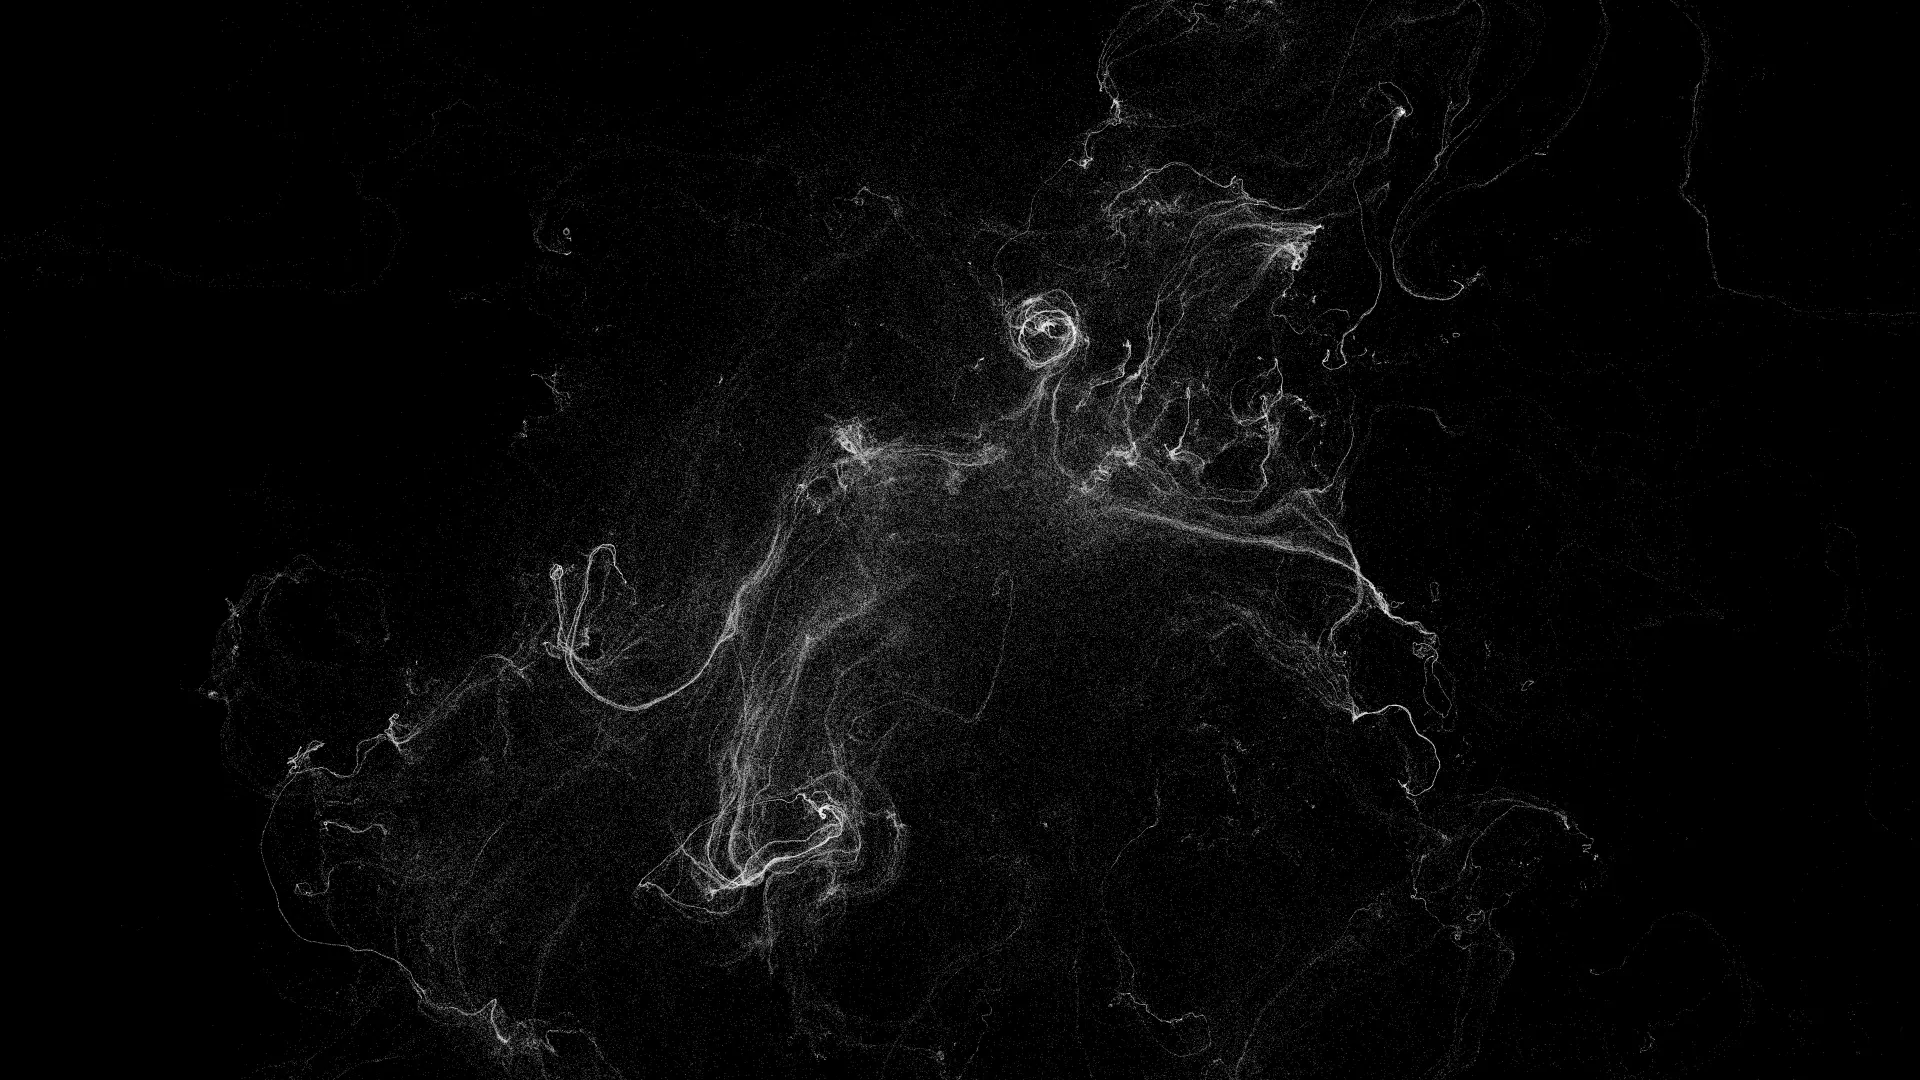
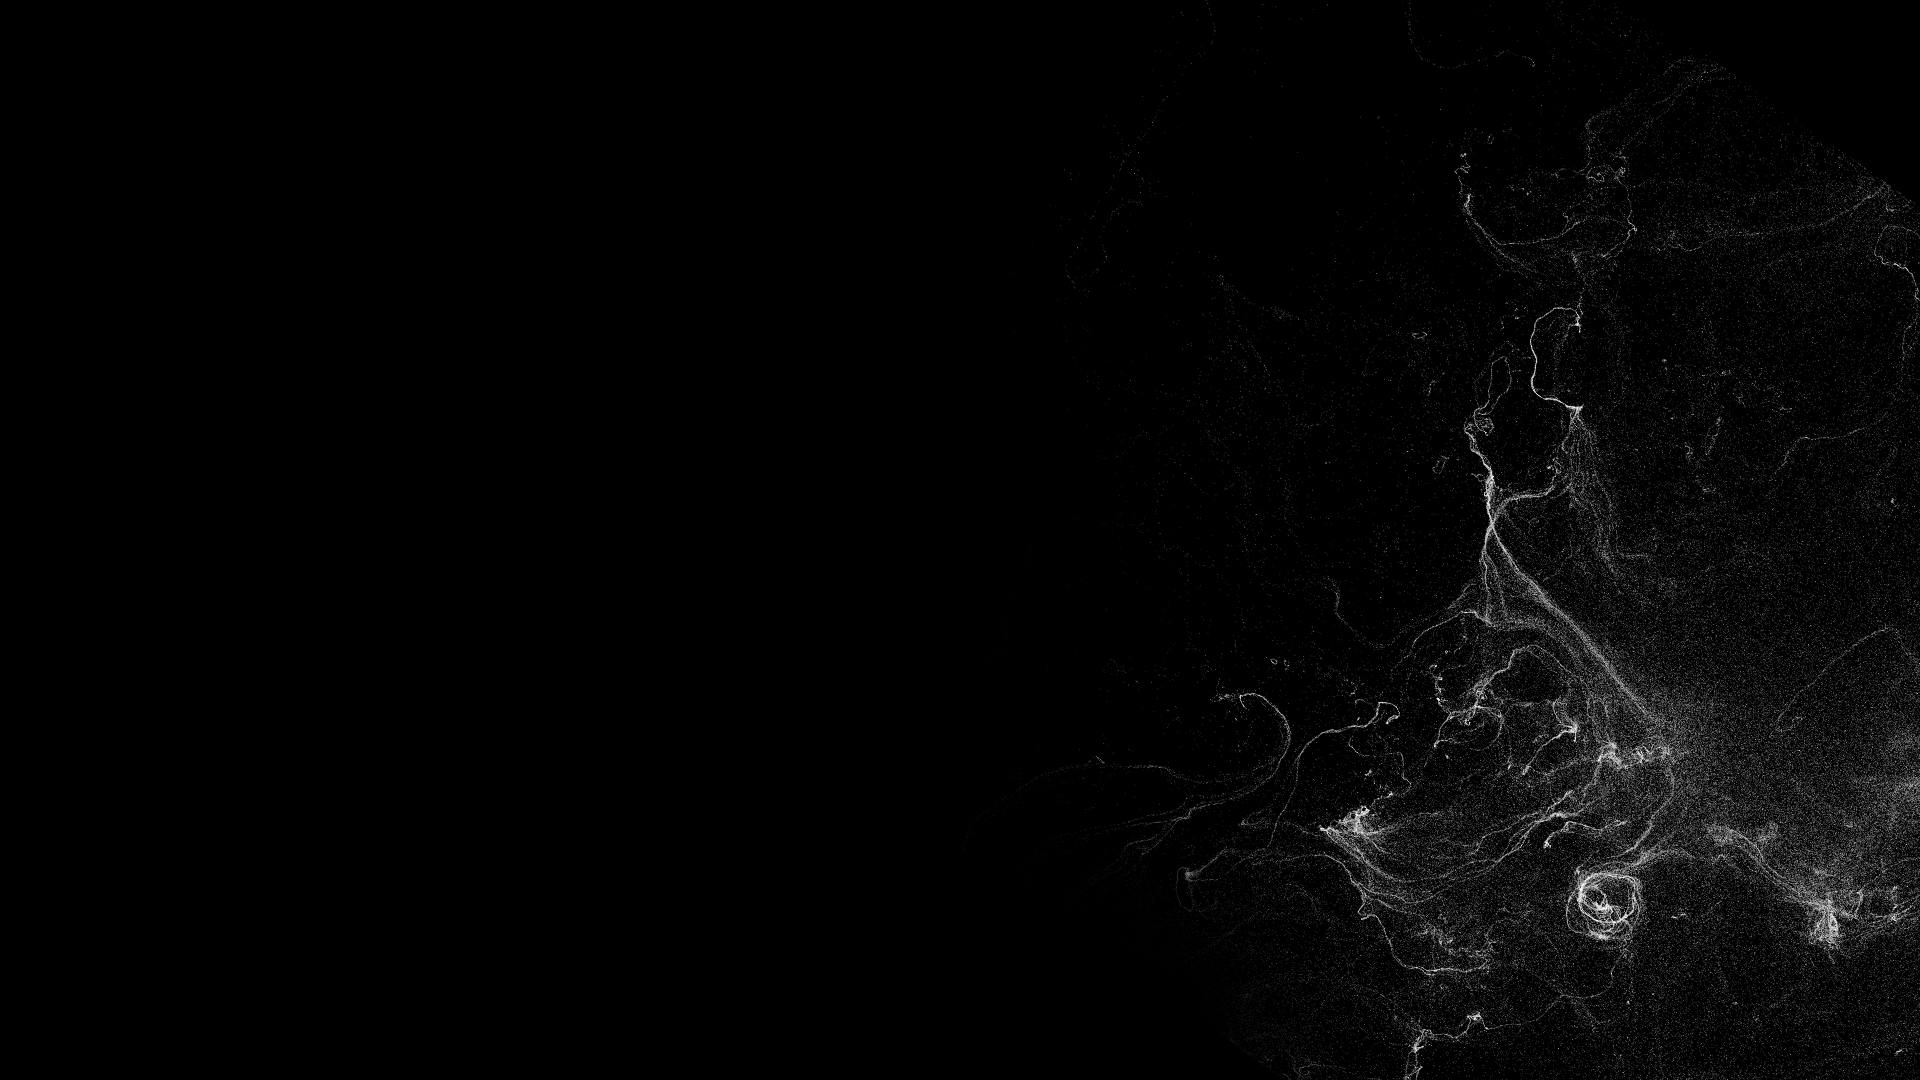
Parallax BG MainCard

diff --git a/src/lib/components/CardMain.svelte b/src/lib/components/CardMain.svelte
@@ -1,16 +1,27 @@
 <script lang="ts">
 	import { _, waitLocale } from 'svelte-i18n';
-	import Footer from '$lib/components/Footer.svelte';
+	import Footer from '$lib/components/mini-components/Footer.svelte';
 	import CardLoader from '$lib/components/CardLoader.svelte';
+	import BackgroundMouse from '$lib/components/mini-components/BackgroundMouse.svelte';
 
 	let { toSubmit, toExplore } = $props();
+	let backgroundRef: BackgroundMouse | undefined = $state();
+
+	function handleMouseMove(e: MouseEvent) {
+		if (backgroundRef) {
+			backgroundRef.updateCoords(e);
+		}
+	}
 </script>
 
 <!-- Loader -->
 {#await waitLocale()}
 	<CardLoader />
 {:then}
-	<div class="card-main-container">
+	<div class="card-bg-container">
+		<BackgroundMouse bind:this={backgroundRef} maxMovement={75} stiffness={0.05} damping={0.95} />
+	</div>
+	<div class="card-main-container" onmousemove={handleMouseMove} role="presentation">
 		<!-- Title -->
 		<div class="card-title-container">
 			<div>{$_('rk_title')}</div>
@@ -37,10 +48,14 @@
 {/await}
 
 <style>
+	.card-bg-container {
+		display: none;
+	}
+
 	.card-main-container {
-		width: 100%;
+		width: 100vw;
 		height: 100vh;
-		background-color: black;
+		/* background-color: black; */
 		display: grid;
 		grid-template-rows: 1fr 1fr 1fr 1fr 1fr;
 		padding: 50px 10% 50px 10%;
@@ -102,8 +117,19 @@
 	}
 
 	@media (min-width: 768px) {
+		.card-bg-container {
+			display: block;
+			position: absolute;
+			top: 0;
+			left: 0;
+			z-index: 0;
+		}
+
 		.card-main-container {
-			background-image: url('extras/EKHO_Sketch_bg.webp');
+			position: absolute;
+			top: 0;
+			left: 0;
+			z-index: 100;
 			grid-template-rows: 1fr 1fr 1fr 1fr;
 			grid-template-columns: 1fr 1fr;
 			grid-template-areas:

diff --git a/src/lib/components/mini-components/BackgroundMouse.svelte b/src/lib/components/mini-components/BackgroundMouse.svelte
@@ -1,0 +1,60 @@
+<script lang="ts">
+	import { Spring } from 'svelte/motion';
+
+	let { maxMovement = 100, stiffness = 0.05, damping = 0.95 } = $props();
+
+	let coords = new Spring(
+		{ x: 0, y: 0 },
+		{
+			stiffness,
+			damping
+		}
+	);
+
+	export function updateCoords(e: MouseEvent) {
+		const centerX = window.innerWidth / 2;
+		const centerY = window.innerHeight / 2;
+
+		// Calculate distance from center, normalized to -1 to 1
+		const normalizedX = (e.clientX - centerX) / centerX;
+		const normalizedY = (e.clientY - centerY) / centerY;
+
+		// Scale to desired movement range
+		coords.target = {
+			x: normalizedX * maxMovement,
+			y: normalizedY * maxMovement
+		};
+	}
+</script>
+
+<div class="bg-container">
+	<div
+		class="bg-mouse"
+		style="--x: {-coords.current.x}px; --y: {-coords.current.y}px"
+		role="presentation"
+	></div>
+</div>
+
+<style>
+	.bg-container {
+		position: absolute;
+		top: 0;
+		left: 0;
+		width: 100vw;
+		height: 100vh;
+		overflow: hidden;
+	}
+
+	.bg-mouse {
+		--x: 0px;
+		--y: 0px;
+		width: 110%;
+		height: 110%;
+		background-image: url('../extras/EKHO_Sketch_bg.webp');
+		background-position: var(--x) var(--y);
+		background-size: cover;
+		background-repeat: no-repeat;
+		overflow: hidden;
+		/* transform: translate(-10%, -10%); */
+	}
+</style>

diff --git a/src/routes/+page.svelte b/src/routes/+page.svelte
@@ -3,7 +3,7 @@
 	import { getAuthToken } from '$lib/utils/api_token';
 	import { apiRequest } from '$lib/utils/api_request';
 	import { _, waitLocale } from 'svelte-i18n';
-	import Header from '$lib/components/Header.svelte';
+	import Header from '$lib/components/mini-components/Header.svelte';
 	import CardLoader from '$lib/components/CardLoader.svelte';
 	import CardMain from '$lib/components/CardMain.svelte';
 	import CardLang from '$lib/components/CardLang.svelte';
